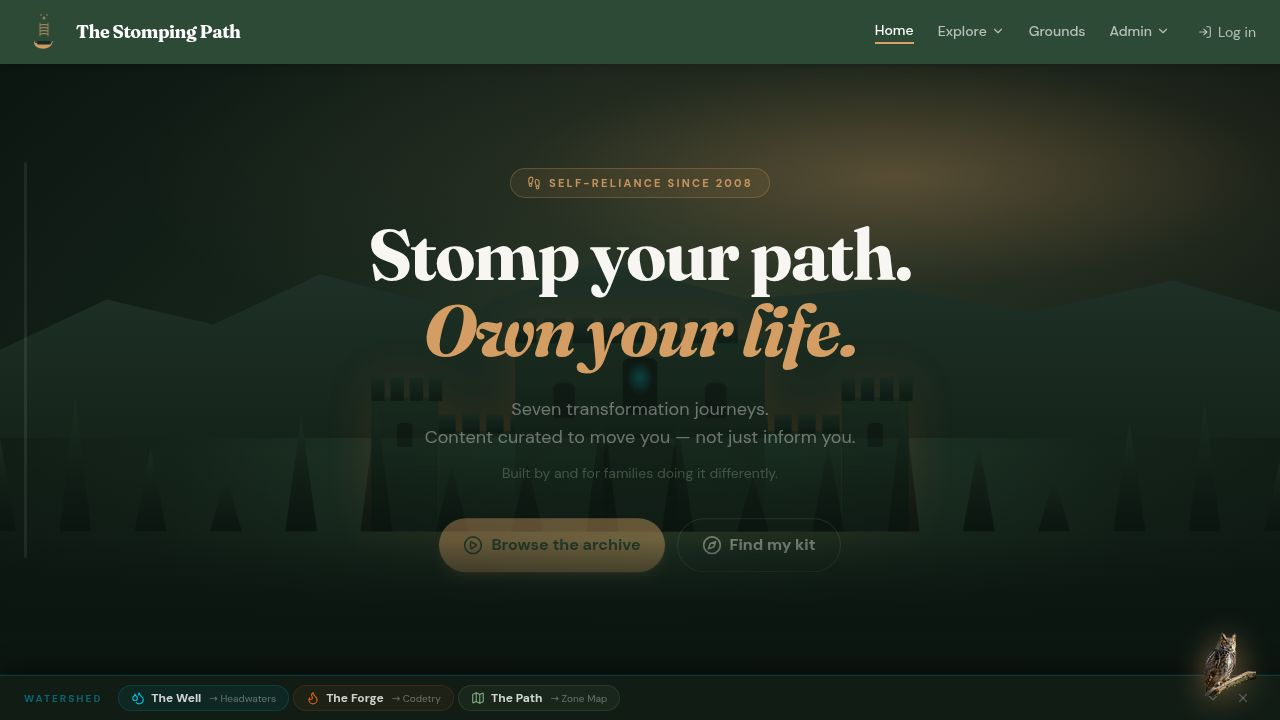
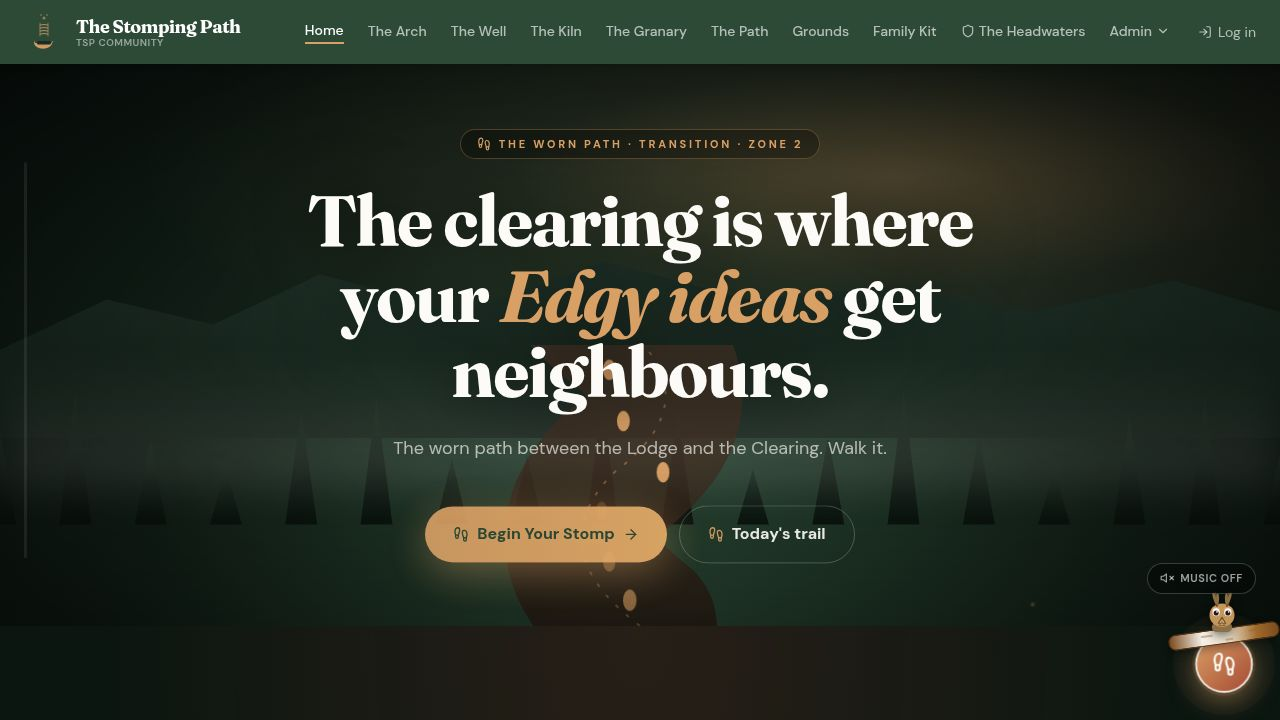
Switch Gord, Codetry, and Ask Ramsey from OpenAI to Grok (xAI)
All three AI-powered routes in the API server have been migrated from the
@user/integrations-openai-ai-server package to xAI's Grok models via
xAI's OpenAI-compatible API.

Changes:
- Added artifacts/api-server/src/xaiClient.ts — a thin factory that creates
  an OpenAI-SDK client pointed at https://api.x.ai/v1 using the XAI_API_KEY
  secret. Called fresh per request (never cached) to match the existing pattern.
- artifacts/api-server/src/routes/gord.ts — removed OpenAI integration import,
  now uses getXaiClient(), model changed from gpt-4.1 → grok-3.
- artifacts/api-server/src/routes/codetry-assess.ts — same swap, model changed
  from gpt-4o-mini → grok-3-mini.
- artifacts/api-server/src/routes/debt-coach.ts — same swap, model changed
  from gpt-5.4 → grok-3.
- artifacts/api-server/package.json — added openai@^6.38.0 as a direct
  dependency (previously it was only available transitively via the integrations
  package, which caused the esbuild bundle to fail to resolve it).
- XAI_API_KEY secret stored securely in Replit Secrets.

All system prompts, streaming logic, rate limiting, and structured JSON
validation are unchanged.

Note: The API server builds and runs cleanly; xAI requests reach the API
successfully (confirmed by 403 with the correct xAI error body). The 403 is
an account-level issue — the xAI team has no credits yet. Adding credits at
console.x.ai will make all three features live immediately.

Replit-Task-Id: 30f1abef-6f54-4c2d-8026-b32b3677700b

diff --git a/artifacts/api-server/src/xaiClient.ts b/artifacts/api-server/src/xaiClient.ts
@@ -1,0 +1,12 @@
+import OpenAI from "openai";
+
+export function getXaiClient(): OpenAI {
+  const apiKey = process.env.XAI_API_KEY;
+  if (!apiKey) {
+    throw new Error("XAI_API_KEY is not configured");
+  }
+  return new OpenAI({
+    apiKey,
+    baseURL: "https://api.x.ai/v1",
+  });
+}

diff --git a/artifacts/api-server/src/routes/codetry-assess.ts b/artifacts/api-server/src/routes/codetry-assess.ts
@@ -75,10 +75,10 @@ router.post("/codetry/assess", async (req: Request, res: Response) => {
     return;
   }
 
-  let openai: import("@workspace/integrations-openai-ai-server").OpenAI | null = null;
+  let openai: import("openai").default | null = null;
   try {
-    const mod = await import("@workspace/integrations-openai-ai-server");
-    openai = mod.openai;
+    const { getXaiClient } = await import("../xaiClient");
+    openai = getXaiClient();
   } catch {
     res.status(503).json({ error: "AI integration is not configured" });
     return;
@@ -90,7 +90,7 @@ router.post("/codetry/assess", async (req: Request, res: Response) => {
 
   try {
     const completion = await openai.chat.completions.create({
-      model: "gpt-4o-mini",
+      model: "grok-3-mini",
       max_completion_tokens: 512,
       messages: [
         { role: "system", content: ASSESSMENT_SYSTEM_PROMPT },

diff --git a/artifacts/api-server/src/routes/debt-coach.ts b/artifacts/api-server/src/routes/debt-coach.ts
@@ -94,10 +94,10 @@ router.post("/debt-coach/chat", async (req, res) => {
       return;
     }
 
-    let openai: import("@workspace/integrations-openai-ai-server").OpenAI | null = null;
+    let openai: import("openai").default | null = null;
     try {
-      const mod = await import("@workspace/integrations-openai-ai-server");
-      openai = mod.openai;
+      const { getXaiClient } = await import("../xaiClient");
+      openai = getXaiClient();
     } catch {
       res.status(503).json({ error: "AI integration is not configured. Please contact the site administrator." });
       return;
@@ -108,7 +108,7 @@ router.post("/debt-coach/chat", async (req, res) => {
     res.setHeader("Connection", "keep-alive");
 
     const stream = await openai.chat.completions.create({
-      model: "gpt-5.4",
+      model: "grok-3",
       max_completion_tokens: 1024,
       messages: [
         { role: "system", content: DEBT_COACH_SYSTEM_PROMPT },

diff --git a/artifacts/api-server/src/routes/gord.ts b/artifacts/api-server/src/routes/gord.ts
@@ -80,10 +80,10 @@ async function gordHandler(req: import("express").Request, res: import("express"
       return;
     }
 
-    let openai: import("@workspace/integrations-openai-ai-server").OpenAI | null = null;
+    let openai: import("openai").default | null = null;
     try {
-      const mod = await import("@workspace/integrations-openai-ai-server");
-      openai = mod.openai;
+      const { getXaiClient } = await import("../xaiClient");
+      openai = getXaiClient();
     } catch {
       res.status(503).json({ error: "AI integration not configured." });
       return;
@@ -107,7 +107,7 @@ async function gordHandler(req: import("express").Request, res: import("express"
     }
 
     const stream = await openai.chat.completions.create({
-      model: "gpt-5",
+      model: "grok-3",
       max_completion_tokens: 512,
       messages: [
         ...systemMessages,